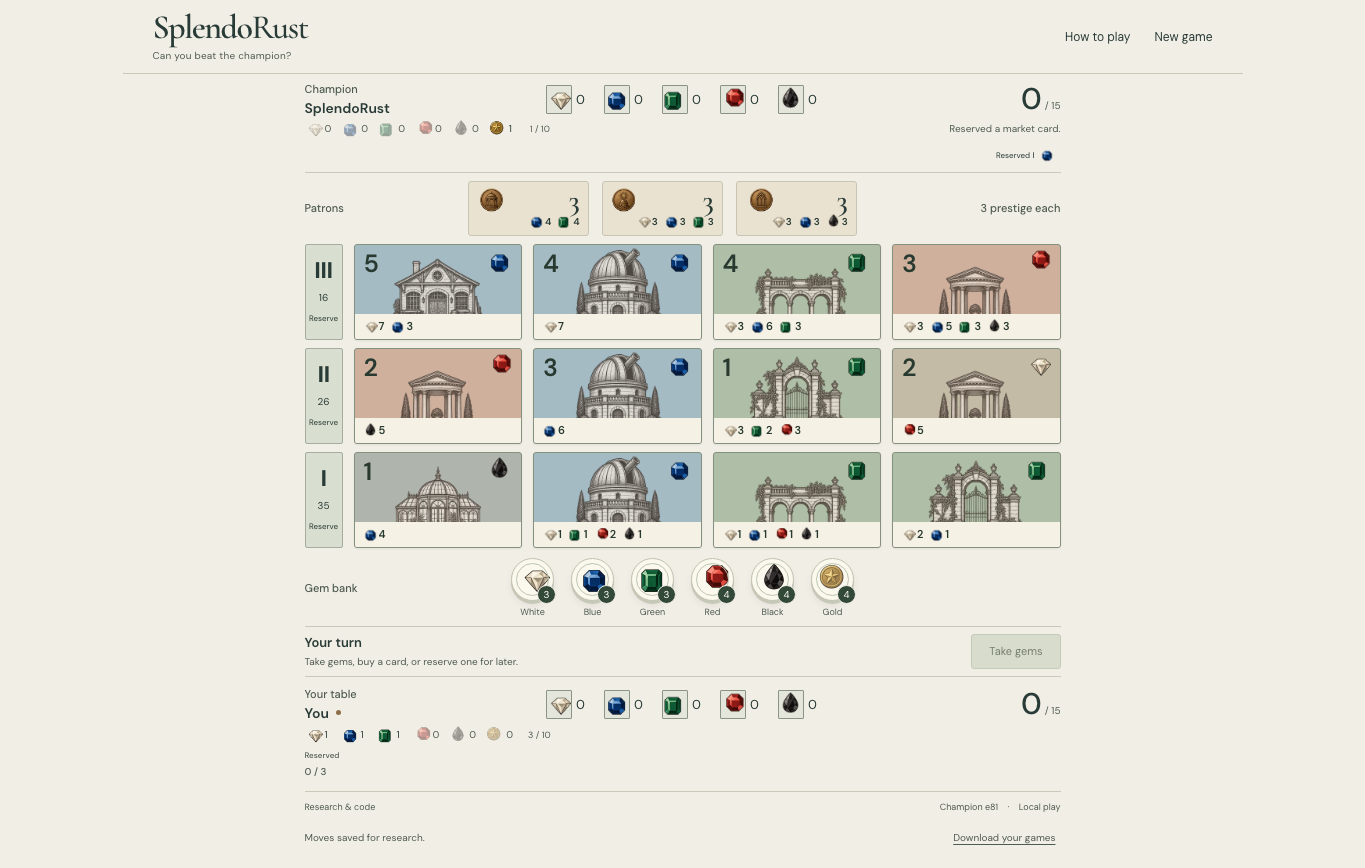
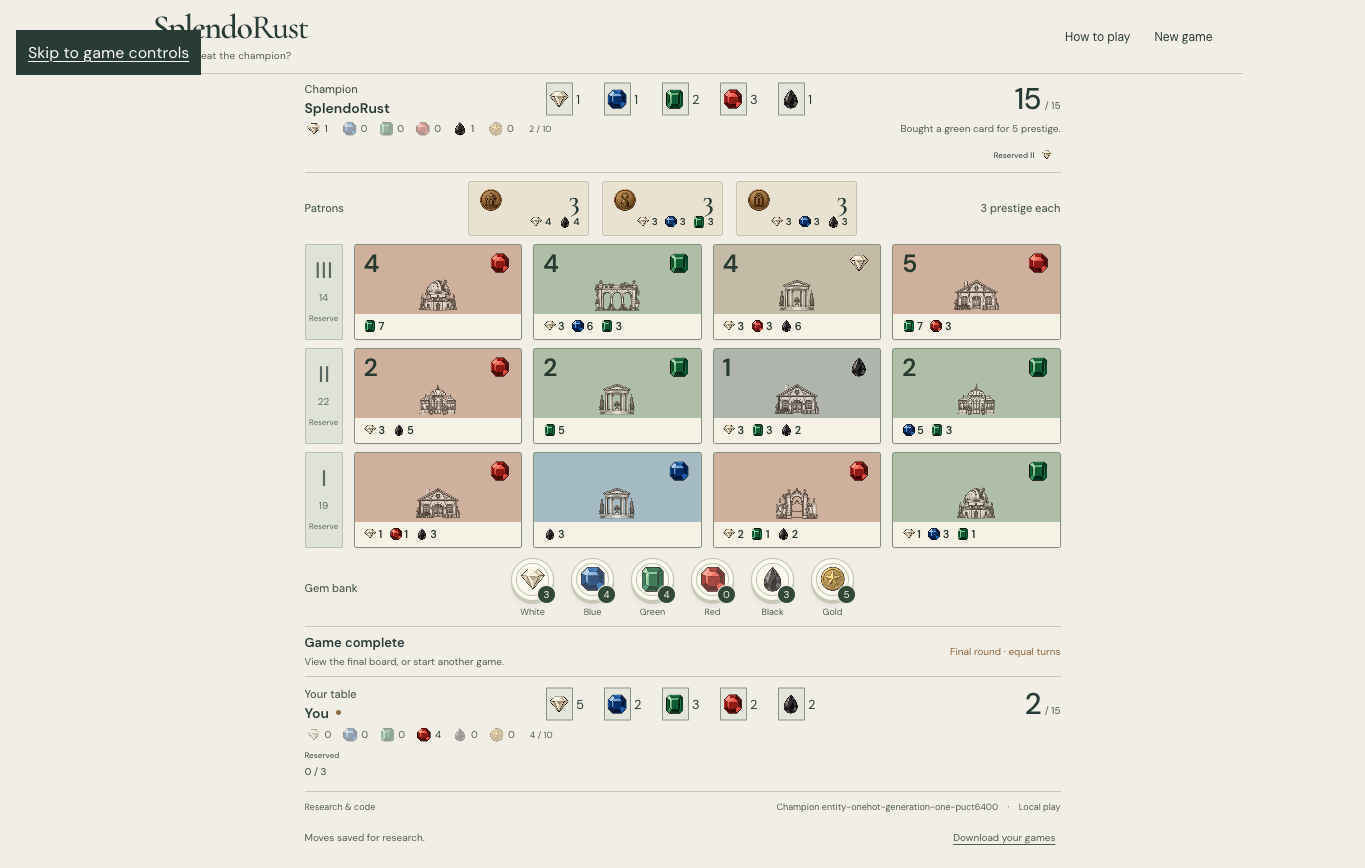
Record complete public WebGPU game checks

diff --git a/research/webgpu-20261006/RESULTS.md b/research/webgpu-20261006/RESULTS.md
@@ -78,4 +78,23 @@ weights, and exports FP32 operations without training.
 
 [Export hashes](export.json), [runtime hashes](runtime.json), and the three
 browser receipts in this directory identify the tested model and inputs.
-Public deployment checks will be added after deployment.
+## Public deployment
+
+The corrected source commit is `7bd5e9d`. The deployment is
+[3184d119](https://3184d119.splendorust.pages.dev), with the live site at
+[SplendoRust](https://splendorust.pages.dev). All 12 public model, metadata,
+runtime, JavaScript, and WASM assets matched the production build hashes.
+See [the asset receipt](public-assets.json).
+
+The normal public interface completed one game: 81 engine decisions and
+52 player turns. No test bridge or seed override was used. All 26 bot turns
+were at most 9,902.705 ms. Five late-game decisions reached 6,400 simulations;
+the other main decisions stopped at the time cap. The initial model load took
+8.62 seconds and is outside the per-turn budget. This host had no GPU fallback.
+
+All 25 observed uploads returned 202. Public journal reads returned 405.
+The downloaded record reported the production WebGPU backend and 10-second
+budget. Native replay validation reported `verified=1 rejected=0 finished=1`.
+The record hash is in [the public check](public-check.json). The private replay
+stays in ignored `local/web-games/`; it is not published as a visitor dataset.
+The game outcome is a runtime check, not a strength estimate.
